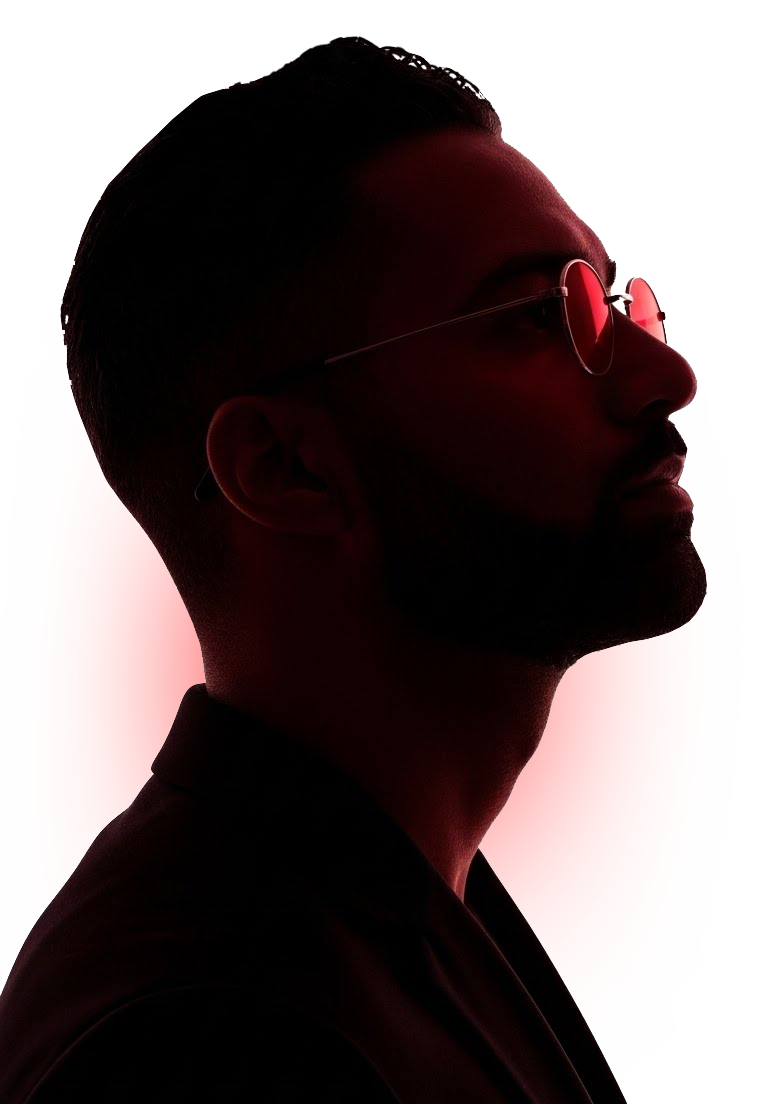
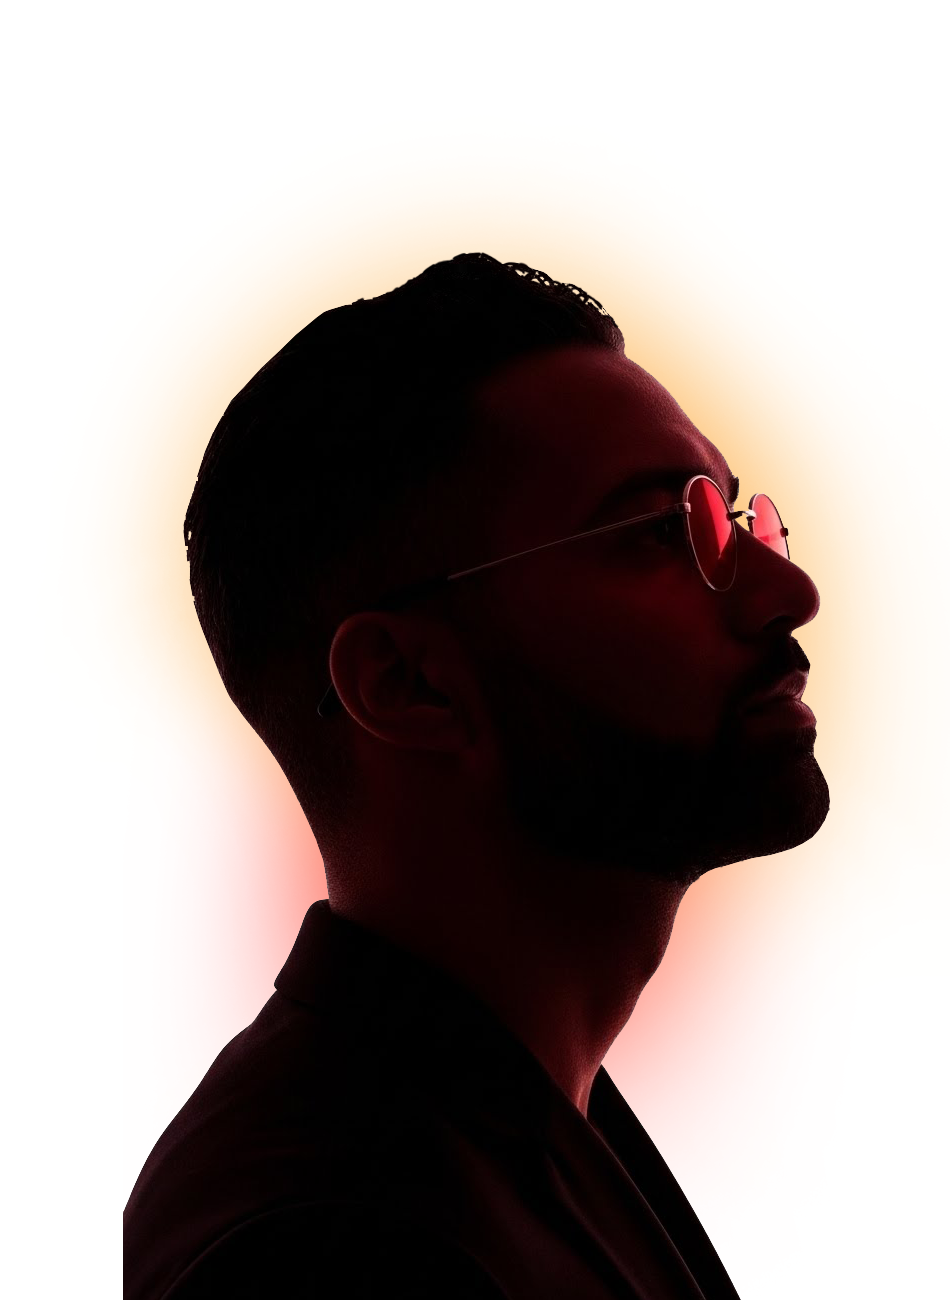
hero image update

diff --git a/components/Hero.tsx b/components/Hero.tsx
@@ -265,7 +265,7 @@ const Hero: React.FC<HeroProps> = ({ assets, onOpenChat }) => {
       </div>
 
       <div 
-        className="absolute bottom-0 w-full h-[60vh] md:h-[65vh] lg:h-[65vh] flex justify-center z-50 pointer-events-none"
+        className="absolute bottom-0 w-full h-[72vh] md:h-[75vh] lg:h-[75vh] flex justify-center z-50 pointer-events-none"
         style={{ transform: `translateY(${scrollY * 0.05}px)` }}
       >
         <div className="relative h-full flex justify-center items-end">
